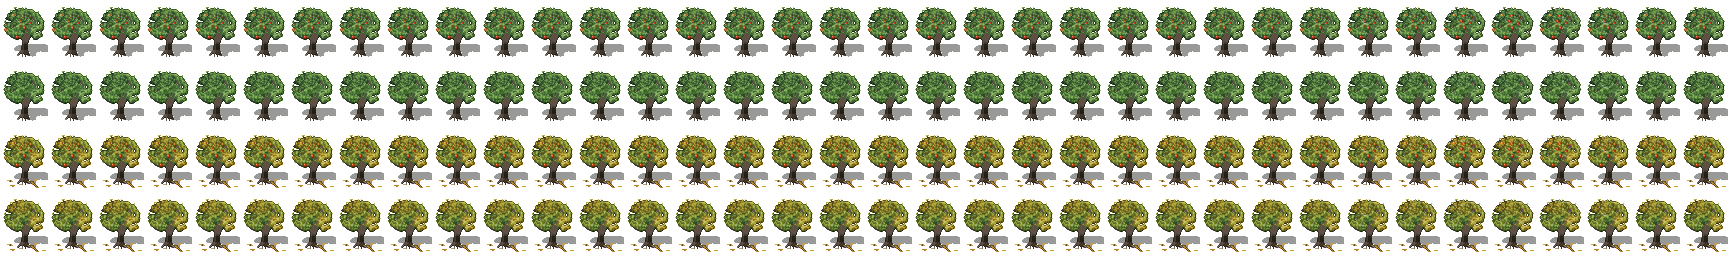
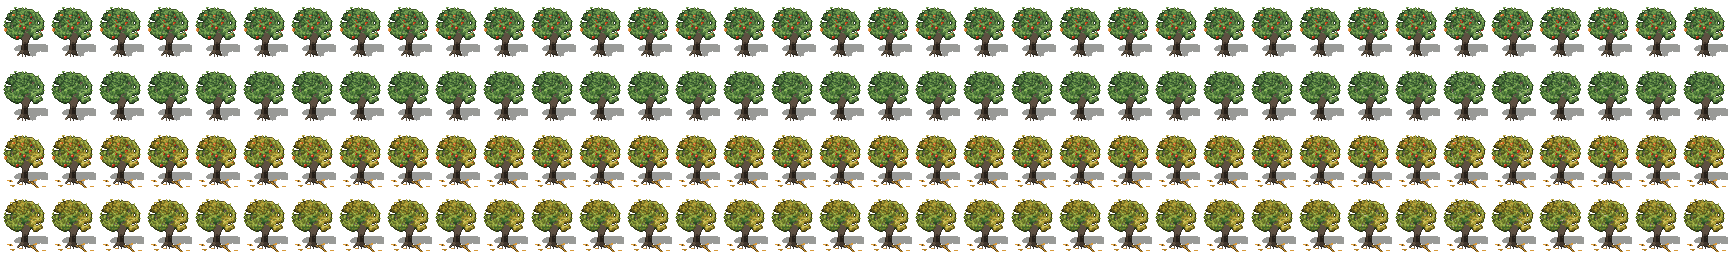
LLM-967d: picking an apple tree changes only its apples
The fruit looks are the picked frames with the fruit laid on, quantized
apart (code_review: a shared palette and hidden apples changed leaf
pixels); --check asserts it.

diff --git a/tools/tree-art/build.py b/tools/tree-art/build.py
@@ -68,7 +68,7 @@ import os
 import random
 import sys
 
-from PIL import Image, ImageDraw
+from PIL import Image, ImageChops, ImageDraw
 
 ROOT = os.path.normpath(os.path.join(os.path.dirname(__file__), "..", ".."))
 OUT_DIR = os.path.join(ROOT, "client", "assets", "trees")
@@ -314,6 +314,8 @@ SPECIES = {
         fallen=["d99a3a", "b8862e"],
         fruit=dict(per_pad=1, share=0.42, spread=2.0, drop=(0.8, 2.4), r=1.6, ramps=[APPLE_RED, APPLE_RED, APPLE_GOLD]),
         fruit_looks=("berries", "autumn-berries"),
+        # each fruit look's picked look: the same frames without the fruit
+        picked={"berries": "bare", "autumn-berries": "autumn-bare"},
         # picked or not, the same leaves lie under it in autumn
         foot={"autumn-berries": 10, "autumn-bare": 10},
     ),
@@ -729,7 +731,7 @@ def flipper(sp, gust, look, seed):
     return flip
 
 
-def draw_crown(sp, body, seed, branches, twigs, look, gust=None, bole=None):
+def draw_crown(sp, body, seed, branches, twigs, look, gust=None, bole=None, fruit=True):
     """Deep foliage inside the crown, the limbs showing through it, then the
     pads, higher first so lower pads overlap them. bole, if given, draws the
     trunk again over the limbs and under the pads: a thick first limb would
@@ -778,7 +780,7 @@ def draw_crown(sp, body, seed, branches, twigs, look, gust=None, bole=None):
                 dx = S
         draw_pad(d, sp, rnd, x + dx, y, ramp_a, ramp_b, hue_of(patches(x, y)), light, still_x=x,
                  flip=None if gust is None else flipper(sp, gust[:2], look, seed), pad=k)
-        if look in sp.fruit_looks:
+        if fruit and look in sp.fruit_looks:
             draw_fruit(d, sp, seed, k, x + dx, y)
     return Image.alpha_composite(body, lay), lay.split()[3], (ramp_a, ramp_b)
 
@@ -833,10 +835,10 @@ def cast_shadow(sp, body):
 
 # ---------------------------------------------------------------- one look
 
-def paint(sp, look, seed, branches, twigs, gust=None):
+def paint(sp, look, seed, branches, twigs, gust=None, fruit=True):
     """One frame of one look. gust = (frame within the puff, how many leaf
     clusters stir 0..1, how far the crown leans), or None for the still
-    tree."""
+    tree. fruit=False paints a fruit look without its fruit."""
     leafy = look in sp.leafy
     body = Image.new("RGBA", (W, H), (0, 0, 0, 0))
     d = ImageDraw.Draw(body)
@@ -867,7 +869,8 @@ def paint(sp, look, seed, branches, twigs, gust=None):
     crown_mask, ramps = None, None
     if leafy:
         body, crown_mask, ramps = draw_crown(sp, body, seed + 1, branches, twigs, look, gust,
-                                             bole=bole if getattr(sp, "bole_over_limbs", False) else None)
+                                             bole=bole if getattr(sp, "bole_over_limbs", False) else None,
+                                             fruit=fruit)
         d = ImageDraw.Draw(body)
     shadow = cast_shadow(sp, body)
     if look in sp.foot:
@@ -916,8 +919,6 @@ def shrink(sp, look, body, shadow, crown_mask, ramps):
         crown_pal = [rgb(h)[:3] for h in a + b] + [mix(rgb(a[i]), rgb(b[i]), 0.5)[:3] for i in range(min(len(a), len(b)))]
         crown_pal += [rgb(h)[:3] for h in sp.crown_bark]
         crown_pal += [rgb(h)[:3] for h in sp.underside.get(look, [])]
-        if look in sp.fruit_looks:
-            crown_pal += [rgb(h)[:3] for cols in sp.fruit["ramps"] for h in cols]
     out = Image.new("RGBA", (FW, FH), (0, 0, 0, 0))
     op = out.load()
     for y in range(FH):
@@ -937,18 +938,49 @@ def frame_count(sp, look):
     return FRAMES if look in sp.leafy else 1
 
 
+def add_fruit(frame, bare, fruited, sp):
+    """Lay a fruit look's fruit on its frame, which was shrunk from the same
+    tree painted without fruit, so every other pixel is the picked look's
+    own. The fruit is what the two paintings differ by (an apple behind a
+    later pad is hidden in both); a frame pixel at least half fruit takes
+    the fruit's average colour there, snapped to the fruit colours."""
+    diff = ImageChops.difference(bare, fruited).convert("L").point(lambda v: 255 if v else 0)
+    only = Image.new("RGBA", fruited.size, (0, 0, 0, 0))
+    only.paste(fruited, (0, 0), diff)
+    # Pillow averages RGBA with premultiplied alpha: colour is the fruit's
+    # own mean, alpha its share of the frame pixel.
+    small = only.resize((FW, FH), Image.BOX).load()
+    pal = [rgb(h)[:3] for cols in sp.fruit["ramps"] for h in cols]
+    out = frame.copy()
+    op = out.load()
+    for y in range(FH):
+        for x in range(FW):
+            c = small[x, y]
+            if c[3] >= 128:
+                op[x, y] = nearest(c[:3], pal) + (255,)
+    return out
+
+
 def look_frames(sp, look, seed, branches, twigs):
     """A look's frames. A leafy look is the still tree, then the puff at the
     end of the loop; the shadow stays the still tree's, so the ground under
-    it does not flicker."""
-    body, shadow, mask, ramps = paint(sp, look, seed, branches, twigs)
-    still = shrink(sp, look, body, shadow, mask, ramps)
+    it does not flicker. A fruit look is its picked look's frames with the
+    fruit laid on (add_fruit), so picking changes no other pixel."""
+    fruity = look in sp.fruit_looks
+
+    def frame(gust, shadow=None):
+        body, sh, mask, ramps = paint(sp, look, seed, branches, twigs, gust=gust, fruit=not fruity)
+        out = shrink(sp, look, body, shadow if shadow is not None else sh, mask, ramps)
+        if fruity:
+            fruited = paint(sp, look, seed, branches, twigs, gust=gust)[0]
+            out = add_fruit(out, body, fruited, sp)
+        return out, sh
+    still, shadow = frame(None)
     if look not in sp.leafy:
         return [still]
     frames = [still] * FRAMES
     for i, (stir, lean) in enumerate(zip(PUFF, LEAN)):
-        g_body, _, g_mask, g_ramps = paint(sp, look, seed, branches, twigs, gust=(i, stir, lean))
-        frames[PUFF_AT + i] = shrink(sp, look, g_body, shadow, g_mask, g_ramps)
+        frames[PUFF_AT + i] = frame((i, stir, lean), shadow)[0]
     return frames
 
 
@@ -993,6 +1025,17 @@ def check_frames(out_dir, species):
                 ok = ok and not bad
                 print("%-10s %-17s %2d frame(s)%s" % (name, look, frame_count(sp, look),
                                                      "" if not bad else "  <- off the anchor or on the frame edge: %s" % bad))
+            # Picking changes nothing but the fruit: a fruit look's frames
+            # differ from its picked look's only where they show fruit.
+            fruit_pal = {rgb(h) for cols in sp.fruit["ramps"] for h in cols} if sp.fruit else set()
+            for look, picked in getattr(sp, "picked", {}).items():
+                r1, r2 = sp.looks.index(look), sp.looks.index(picked)
+                stray = sum(1 for y in range(FH) for x in range(FW * FRAMES)
+                            if sheet.getpixel((x, r1 * FH + y)) != sheet.getpixel((x, r2 * FH + y))
+                            and sheet.getpixel((x, r1 * FH + y)) not in fruit_pal)
+                ok = ok and not stray
+                print("%-10s %-17s picked is %s%s" % (name, look, picked,
+                                                     "" if not stray else "  <- %d pixels other than fruit differ" % stray))
     return ok
 
 
